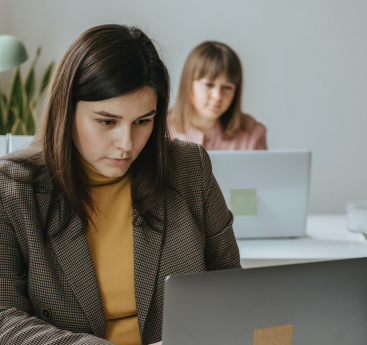
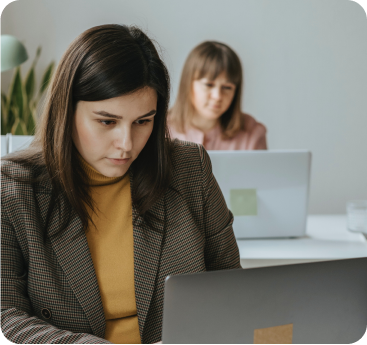
image gallery with responsive

Changed region(s): [[0.0, 0.9565, 1.0, 1.0], [0.9591, 0.0, 1.0, 0.058], [0.0, 0.0, 0.03, 0.058]]

diff --git a/styles/index.css b/styles/index.css
@@ -489,6 +489,10 @@ Home Process Section
   font-size: 1.1rem;
   font-weight: 600;
   border-radius: 50%;
+  transition: opacity 300ms ease-in-out;
+}
+.home-process .process-wrapper .process-left .step-wrapper .step:hover .number {
+  opacity: 0.8;
 }
 .home-process
   .process-wrapper
@@ -532,10 +536,136 @@ Home Process Section
   column-gap: 1.2rem;
   row-gap: 1.6rem;
 }
-
+.home-process .process-wrapper .process-right .card-wrapper .card:hover .icon{
+  background-color: transparent;
+}
 /* ------------------------------------------
-Home about
+Home Image Gallary Section
 --------------------------------------------*/
+.home-gallery {
+  background: url("/assets/home/gallery-pattern.png");
+  background-repeat: no-repeat;
+  width: 100%;
+  height: 25rem;
+  background-color: var(--primary-3);
+}
+.home-gallery .top {
+  display: flex;
+  column-gap: 1.12rem;
+  padding-top: 4rem;
+  justify-content: center;
+  padding-bottom: 2rem;
+}
+.home-gallery .top .top-left .sub-title {
+  color: var(--secondary-2);
+  background-color: var(--primary-2);
+}
+.home-gallery .top .top-left .heading-title {
+  color: var(--secondary-2);
+  font-size: 1.11rem;
+  font-weight: 500;
+}
+.home-gallery .top .top-left {
+  flex-basis: 65%;
+}
+.home-gallery .top .top-right {
+  flex-basis: 30%;
+}
+.home-gallery .top .top-right .primary-btn{
+  background-color: var(--primary-1);
+  display: block;
+  font-size: 0.679rem;
+  text-decoration: none;
+  border-radius: 1rem;
+  text-align: center;
+  padding: 0.45rem 0.5rem;
+  color: var(--primary-3);
+  max-width: max-content;
+  margin-left: auto;
+  transition: all 300ms ease-in-out;
+}
+.home-gallery .top .top-right .primary-btn:hover {
+    background-color: var(--secondary-2);
+    color: var(--primary-2);
+}
+.home-gallery .gallery-wrapper {
+  background-color: var(--secondary-2);
+  padding: 1.2rem 0.75rem;
+  border-radius: 0.457rem;
+  display: grid;
+  grid-template-columns: repeat(2, minmax(0, 1fr));
+  column-gap: 1.1rem;
+  row-gap: 1.8rem;
+  justify-content: center;
+}
+.home-gallery .gallery-wrapper .gallery-item {
+  position: relative;
+  max-width: max-content;
+  margin: 0 auto;
+}
+.home-gallery .gallery-wrapper .gallery-item::before {
+  content: "";
+  position: absolute;
+  top: 0;
+  left: 0;
+  width: 0;
+  height: 100%;
+  background: rgba(14, 13, 13, 0.6803);
+  border-radius: 0.699rem;
+  transition: width 250ms ease-in-out;
+}
+.home-gallery .gallery-wrapper .gallery-item .content-area {
+  position: absolute;
+  bottom: 0;
+  left: 0;
+  transform: scale(0);
+  transition: transform 310ms ease-in-out;
+}
+.home-gallery .gallery-wrapper .gallery-item .content-area .title {
+  color: var(--secondary-2);
+  font-weight: 500;
+  font-size: 0.858rem;
+  margin-bottom: 0.457rem;
+  margin-left: 0.474rem;
+}
+.home-gallery .gallery-wrapper .gallery-item .content-area .sub-title {
+  background-color: transparent;
+  padding: 0;
+  color: var(--primary-1);
+  text-transform: capitalize;
+  margin-left: 0.474rem;
+  font-weight: 400;
+  font-size: 0.6687rem;
+}
+.home-gallery .gallery-wrapper .gallery-item .addition {
+  position: absolute;
+  right: 0.745rem;
+  top: 0.54rem;
+  color: var(--primary-3);
+  background-color: var(--primary-1);
+  height: 1.8rem;
+  width: 1.8rem;
+  display: flex;
+  justify-content: center;
+  align-items: center;
+  border-radius: 50%;
+  font-size: 1.4rem;
+  transform: scale(0);
+  transition: all 300ms ease-in-out;
+  cursor: pointer;
+}
+.home-gallery .gallery-wrapper .gallery-item .addition:hover {
+  background-color: var(--secondary-2);
+}
+.home-gallery .gallery-wrapper .gallery-item:hover::before {
+  width: 100%;
+}
+.home-gallery .gallery-wrapper .gallery-item:hover .addition{
+ transform: scale(1);
+}
+.home-gallery .gallery-wrapper .gallery-item:hover .content-area{
+  transform: scale(1);
+}
 /* ------------------------------------------
 Home about
 --------------------------------------------*/
@@ -609,6 +739,11 @@ Styles for Tablet devices
   .home-process .process-wrapper .process-left .step-wrapper {
     margin-top: 4rem;
   }
+  /* Home Image Gallery Section */
+  .home-gallery .top .top-left .heading-title {
+    font-size: 1.6rem;
+    max-width: max-content;
+  }
 }
 
 /* ================================================
@@ -658,6 +793,32 @@ Styles for Laptop Devices
   /* Home Process Section */
   .home-process {
     padding: 8rem 0;
+  }
+  /* Home Image Gallary Section */
+  .home-gallery .gallery-wrapper {
+    grid-template-columns: repeat(3, minmax(0, 1fr));
+  }
+  .home-gallery .top .top-left .heading-title {
+    max-width: 40.135rem;
+  }
+  .home-gallery .top .top-right .primary-btn {
+    font-size: 0.89rem;
+    padding: 0.75rem 0.87rem;
+    border-radius: 1.5rem;
+  }
+  .home-gallery .gallery-wrapper .gallery-item .content-area {
+    bottom: 0.27rem;
+    left: 0.87rem;
+  }
+  .home-gallery .gallery-wrapper .gallery-item .content-area .title {
+    font-size: 1.1rem;
+  }
+  .home-gallery .gallery-wrapper .gallery-item .content-area .sub-title {
+    font-size: 0.769rem;
+  }
+  .home-gallery .gallery-wrapper .gallery-item .addition {
+    top: 1rem;
+    right: 1rem;
   }
 }
 

diff --git a/index.html b/index.html
@@ -320,7 +320,8 @@
               <div class="content-wrapper">
                 <h5 class="title">Consult with us</h5>
                 <p class="info">
-                  Increase social reach and productivity with our App Directory, a collection.
+                  Increase social reach and productivity with our App Directory,
+                  a collection.
                 </p>
               </div>
             </div>
@@ -329,7 +330,8 @@
               <div class="content-wrapper">
                 <h5 class="title">Payment & Boost</h5>
                 <p class="info">
-                  We encourage every team member to be a whole person. We have a flexible.
+                  We encourage every team member to be a whole person. We have a
+                  flexible.
                 </p>
               </div>
             </div>
@@ -398,6 +400,90 @@
       </div>
     </section>
     <!-- Home Process End -->
+    <!-- Home Gallary Pattern Start -->
+    <section class="home-gallery">
+      <div class="container">
+        <div class="top">
+          <div class="top-left">
+            <h4 class="sub-title">Process</h4>
+            <h2 class="heading-title">
+              Our client, global analytical techno company, wanted to build
+              market.
+            </h2>
+          </div>
+          <div class="top-right">
+            <a href="#" class="primary-btn"> More Gallery </a>
+          </div>
+        </div>
+        <div class="gallery-wrapper">
+          <div class="gallery-item">
+            <img src="assets/home/gallery-1.png" alt="gallery" />
+            <div class="content-area">
+              <h3 class="title">Taxes & Efficiency</h3>
+              <h5 class="sub-title">Business</h5>
+            </div>
+            <div class="addition">
+              <i class="bx bx-plus"></i>
+            </div>
+          </div>
+          <div class="gallery-item">
+            <img src="assets/home/gallery-2.png" alt="gallery" />
+            <div class="content-area">
+              <h3 class="title">Audit & Evaluation</h3>
+              <h5 class="sub-title">Marketing</h5>
+            </div>
+            <div class="addition">
+              <i class="bx bx-plus"></i>
+            </div>
+          </div>
+          <div class="gallery-item">
+            <img src="assets/home/gallery-3.png" alt="gallery" />
+            <div class="content-area">
+              <h3 class="title">Financial Projections</h3>
+              <h5 class="sub-title">Accounting</h5>
+            </div>
+            <div class="addition">
+              <i class="bx bx-plus"></i>
+            </div>
+          </div>
+          <div class="gallery-item">
+            <img src="assets/home/gallery-4.png" alt="gallery" />
+            <div class="content-area">
+              <h3 class="title">Funds and investments</h3>
+              <h5 class="sub-title">Consulting</h5>
+            </div>
+            <div class="addition">
+              <i class="bx bx-plus"></i>
+            </div>
+          </div>
+          <div class="gallery-item">
+            <img src="assets/home/gallery-5.png" alt="gallery" />
+            <div class="content-area">
+              <h3 class="title">Finance & Restructuring</h3>
+              <h5 class="sub-title">Accounting</h5>
+            </div>
+            <div class="addition">
+              <i class="bx bx-plus"></i>
+            </div>
+          </div>
+          <div class="gallery-item">
+            <img
+              src="assets/home/gallery-6.png"
+              alt="gallery"
+              style="border-radius: 0.699rem"
+            />
+            <div class="content-area">
+              <h3 class="title">Investment banking</h3>
+              <h5 class="sub-title">Business</h5>
+            </div>
+            <div class="addition">
+              <i class="bx bx-plus"></i>
+            </div>
+          </div>
+        </div>
+      </div>
+    </section>
+    <!-- Home Gallary Pattern End -->
 
     <!-- Boxicons cdn -->
     <script src="https://unpkg.com/boxicons@2.1.4/dist/boxicons.js"></script>

diff --git a/styles/global.css b/styles/global.css
@@ -92,6 +92,14 @@ body {
 .card .info {
   max-width: 18rem;
 }
+.card:hover {
+  background-color: var(--primary-3);
+  color: var(--secondary-2);
+  cursor: pointer;
+}
+.card:hover .title {
+  color: var(--secondary-2);
+}
 .info {
     max-width: 18rem;
 }
